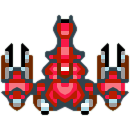
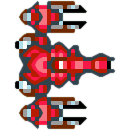
Update

diff --git a/Codigo/draw.c b/Codigo/draw.c
@@ -42,7 +42,7 @@ int drawInit () {
         return -1;
     }
 
-    planet_im = al_load_bitmap ("../Images/planets16/planet_18.png");
+    planet_im = al_load_bitmap ("../Images/planets16/planet_28.png");
     if (!planet_im) {
         fprintf (stderr, "Falha ao iniciar a imagem do Planeta\n");
         al_destroy_display (display);
@@ -50,7 +50,7 @@ int drawInit () {
         return -1;
     }
 
-    player1_im = al_load_bitmap ("../Images/milleniumTop.png");
+    player1_im = al_load_bitmap ("../Images/player1.png");
     if (!player1_im) {
         fprintf (stderr, "Falha ao iniciar a imagem do Player 1\n");
         al_destroy_display (display);
@@ -60,7 +60,7 @@ int drawInit () {
         return -1;
     }
 
-    player2_im = al_load_bitmap ("../Images/milleniumTop.png");
+    player2_im = al_load_bitmap ("../Images/player2.png");
     if (!player2_im) {
         fprintf (stderr, "Falha ao iniciar a imagem do Player 2\n");
         al_destroy_display (display);
@@ -71,7 +71,7 @@ int drawInit () {
         return -1;
     }
 
-    projectile_im = al_load_bitmap ("../Images/milleniumTop.png");
+    projectile_im = al_load_bitmap ("../Images/projectile.png");
     if (!projectile_im) {
         fprintf (stderr, "Falha ao iniciar a imagem dos Projeteis\n");
         al_destroy_display (display);
@@ -139,7 +139,7 @@ void drawScene (double dt, double simulation, Ship *player1, Ship *player2, Celu
     /* Creating Timer */
     ALLEGRO_TIMER *timer = NULL;
     timer = al_create_timer (1.0 / dt);
-    if (!timer) 
+    if (!timer)
         fprintf (stderr, "Erro ao inicalizar timer\n");
 
     al_register_event_source (event_queue, al_get_display_event_source (display));
@@ -166,8 +166,8 @@ void drawScene (double dt, double simulation, Ship *player1, Ship *player2, Celu
             drawBodies (player1, player2, head, planet);
             simulation -= dt;
             al_flip_display ();
-        } 
-    
+        }
+
     }
 
      al_destroy_timer (timer);

diff --git a/Codigo/vector.c b/Codigo/vector.c
@@ -1,29 +1,30 @@
 #include <stdlib.h>
+#include <math.h>
 #include "vector.h"
 
 // Cria um objeto Vector
 Vector* createVector (double x, double y) {
     Vector* a = malloc (sizeof (Vector));
-    
+
     if (a != NULL) {
         a->x = x;
         a->y = y;
     }
-    
+
     return a;
 }
 
 // Destroi um objeto Vector
 void destroyVector (Vector *vector) {
     if (vector == NULL) return;
-    
+
     free (vector);
 }
 
 // Calcula a soma de dois vetores ('a' e 'b') colocando o resultado em 'a'
 void vectorSum (Vector *a, Vector *b) {
     if (a == NULL || b == NULL) return;
-    
+
     a->x += b->x;
     a->y += b->y;
 }
@@ -31,7 +32,7 @@ void vectorSum (Vector *a, Vector *b) {
 // Calcula o produto interno entre dois vetores ('a' e 'b') e retorna um double
 double vectorDotProduct (Vector *a, Vector *b) {
     if (a == NULL || b == NULL) return -1;
-    
+
     double res;
     res = a->x*b->x + a->y*b->y;
     return res;
@@ -40,7 +41,13 @@ double vectorDotProduct (Vector *a, Vector *b) {
 // Multiplica o vetor 'a' por um escalar 'x' direto no vetor 'a'
 void vectorScalarProduct (Vector *a, double x) {
     if (a == NULL) return;
-    
+
     a->x *= x;
     a->y *= x;
+}
+
+/* Calcula o angulo do vector a em relação ao eixo X (1, 0) */
+double vectorAngle (Vector *a) {
+  if (a->x == 0 && a->y == 0) return 0;
+  return atan2 (a->y, a->x);
 }

diff --git a/Codigo/simulation.c b/Codigo/simulation.c
@@ -2,8 +2,8 @@
 #include "simulation.h"
 
 void updatePositions (double dt, Ship *player1, Ship *player2, Celula *head, Body *planet) {
-    player1->body->angle += 0.01;
-    player2->body->angle += 0.02;
+    player1->body->angle = vectorAngle (player1->body->velocity);
+    player2->body->angle = vectorAngle (player2->body->velocity);
 
     bodySetForce (player1->body, createVector (0, 0));
     bodySetForce (player2->body, createVector (0, 0));
@@ -28,9 +28,12 @@ void updatePositions (double dt, Ship *player1, Ship *player2, Celula *head, Bod
             previous->next = current->next;
             destroyProjectile (aux->proj);
             destroyCelula (aux);
-        }
-        else
+
+        } else {
+            current->proj->body->angle = vectorAngle (current->proj->body->velocity);
             movement (current->proj->body, dt);
+
+        }
 
         previous = current;
         current = current->next;

diff --git a/Codigo/vector.h b/Codigo/vector.h
@@ -32,5 +32,7 @@ double vectorDotProduct (Vector *a, Vector *b);
 /* multiplica o vetor a por x */
 void vectorScalarProduct (Vector *a, double x);
 
+/* Calcula o angulo do vector a em relação ao eixo X (1, 0) */
+double vectorAngle (Vector *a);
 
 #endif
